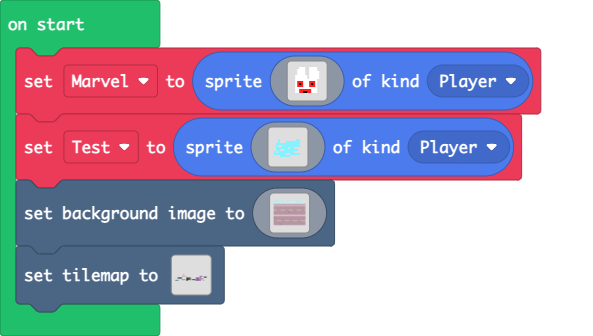
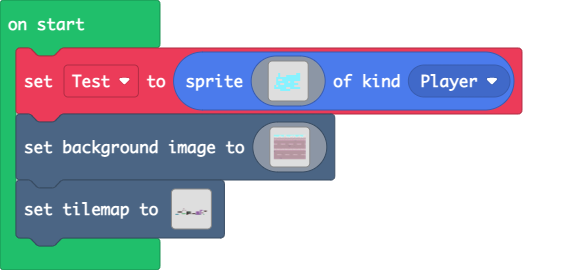
Update main.blocks, main.ts, tilemap.g.jres, tilemap.g.ts

diff --git a/tilemap.g.ts b/tilemap.g.ts
@@ -252,6 +252,25 @@ namespace myTiles {
 . . . . . . . . . . . . . . . . 
 . . . . . . . . . . . . . . . . 
 `, [myTiles.transparency16], TileScale.Sixteen);
+            case "level14":
+            case "level14":return tiles.createTilemap(hex`1000100000000000000000000000000000000000000000000000000000000000000000000000000000000000000000000000000000000000000000000000000000000000000000000000000000000000000000000000000000000000000000000000000000000000000000000000000000000000000000000000000000000000000000000000000000000000000000000000000000000000000000000000000000000000000000000000000000000000000000000000000000000000000000000000000000000000000000000000000000000000000000000000000000000000000000000000000000000000000000000000000000000000000000000000000000000000`, img`
+. . . . . . . . . . . . . . . . 
+. . . . . . . . . . . . . . . . 
+. . . . . . . . . . . . . . . . 
+. . . . . . . . . . . . . . . . 
+. . . . . . . . . . . . . . . . 
+. . . . . . . . . . . . . . . . 
+. . . . . . . . . . . . . . . . 
+. . . . . . . . . . . . . . . . 
+. . . . . . . . . . . . . . . . 
+. . . . . . . . . . . . . . . . 
+. . . . . . . . . . . . . . . . 
+. . . . . . . . . . . . . . . . 
+. . . . . . . . . . . . . . . . 
+. . . . . . . . . . . . . . . . 
+. . . . . . . . . . . . . . . . 
+. . . . . . . . . . . . . . . . 
+`, [myTiles.transparency16], TileScale.Sixteen);
         }
         return null;
     })

diff --git a/main.ts b/main.ts
@@ -1,21 +1,3 @@
-let Marvel = sprites.create(img`
-    . . . . . . . . . . . . . . . . 
-    . . . . 1 1 1 . . 1 1 1 1 . . . 
-    . . . 1 1 1 1 . . 1 1 1 1 . . . 
-    . . . 1 1 1 1 . . 1 1 1 1 1 . . 
-    . . . 1 1 1 1 . . 1 1 1 1 1 . . 
-    . . 1 1 1 1 1 1 . 1 1 1 1 1 . . 
-    . . 1 1 1 1 1 1 . 1 1 1 1 1 . . 
-    . . 1 1 1 1 1 1 1 1 1 1 1 . . . 
-    . . 1 2 2 2 1 1 1 2 2 2 1 . . . 
-    . . 1 2 f 2 1 1 1 2 f 2 1 . . . 
-    . . 1 2 2 2 1 1 1 2 2 2 1 . . . 
-    . . 1 1 1 1 1 1 1 1 1 1 1 . . . 
-    . . 1 1 2 2 2 2 2 2 1 1 1 . . . 
-    . . 1 1 2 2 f f 2 2 1 1 1 . . . 
-    . . . . . . . . . . . . . . . . 
-    . . . . . . . . . . . . . . . . 
-    `, SpriteKind.Player)
 let Test = sprites.create(img`
     . . . . . . . . . . . . . . . . 
     . . . . . . . . . . . . . . . . 
